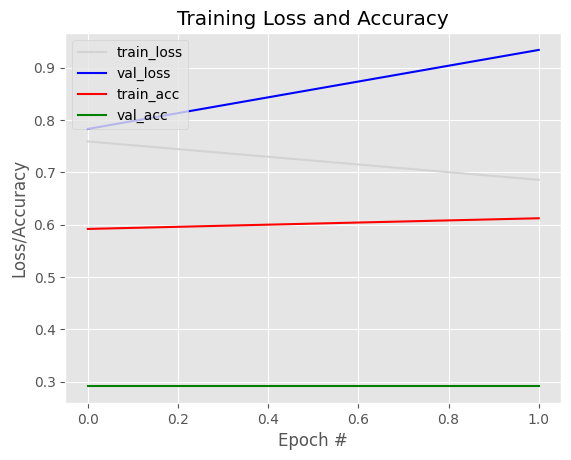
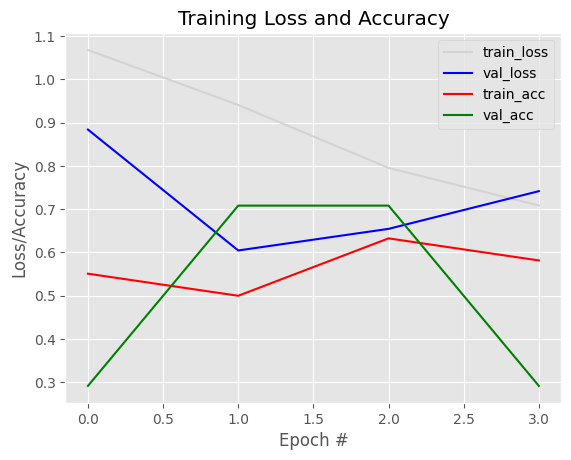
add earlyStop

diff --git a/model_utils/model_utils.py b/model_utils/model_utils.py
@@ -6,28 +6,28 @@ import matplotlib.pyplot as plt
 import numpy as np
 import os
 
+def save_model(arg_model,arg_model_last_model_path):
+# def save_model(arg_model_json_path,arg_label_obj_path,arg_model,arg_model_weights_path,arg_model_last_model_path):
+    # # serialize model to JSON
+    # model_json = arg_model.to_json()
+    # with open(arg_model_json_path, "w") as json_file:
+    #     json_file.write(model_json)
 
-def save_model(arg_model_json_path,arg_label_obj_path,arg_model,arg_model_weights_path,arg_model_default_save_path):
-    # serialize model to JSON
-    model_json = arg_model.to_json()
-    with open(arg_model_json_path, "w") as json_file:
-        json_file.write(model_json)
+    # lb = LabelEncoder()
+    # # pickle label encoder obj
+    # with open(arg_label_obj_path, 'wb') as lb_obj:
+    #     pickle.dump(lb, lb_obj)
 
-    lb = LabelEncoder()
-    # pickle label encoder obj
-    with open(arg_label_obj_path, 'wb') as lb_obj:
-        pickle.dump(lb, lb_obj)
+    # # serialize weights to HDF5
+    # arg_model.save_weights(arg_model_weights_path)
+    # arg_model.save(arg_model_weights_path)
+    arg_model.save(arg_model_last_model_path)
 
-    # serialize weights to HDF5
-    arg_model.save_weights(arg_model_weights_path)
-    arg_model.save(arg_model_weights_path)
-    arg_model.save(arg_model_default_save_path)
-
-def plot_loss_accuracy(arg_model_fit_output, arg_nb_epochs, arg_output_folder):
+def plot_loss_accuracy(arg_model_fit_output, arg_output_folder):
     plt.style.use("ggplot")
     plt.figure()
     H = arg_model_fit_output
-    N = arg_nb_epochs
+    N = len(H.history["loss"])
     plt.plot(np.arange(0, N), H.history["loss"], color='lightgrey', label="train_loss")
     plt.plot(np.arange(0, N), H.history["val_loss"], color='blue', label="val_loss")
     plt.plot(np.arange(0, N), H.history["accuracy"], color='red', label="train_acc")

diff --git a/conf.py b/conf.py
@@ -10,12 +10,14 @@ val_spit=0.2
 # check if the folder exists
 import os
 output_folder = 'output'
-model_json_path = os.path.join(output_folder, 'model.json')
-label_obj_path = os.path.join(output_folder, 'labels.h5')
+# model_json_path = os.path.join(output_folder, 'model.json')
+# label_obj_path = os.path.join(output_folder, 'labels.h5')
 model_each_epoch_path = os.path.join(output_folder, 'each_epoch', 'model_at_{epoch}.h5')
-model_weights_path = os.path.join(output_folder, 'last_epoch_model_weights.h5')
-model_last_save_path  = os.path.join(output_folder, 'last_epoch_tf_model.h5')
+# model_weights_path = os.path.join(output_folder, 'last_epoch_model_weights.h5')
+model_last_epoch  = os.path.join(output_folder, 'last_epoch_model.h5')
 model_best_path = os.path.join(output_folder, 'best_model', 'best_model_at_{epoch}.h5')
+
+# specify a model for evaluation and inference
 model_best_file_path = os.path.join(output_folder, 'best_model', 'best_model_at_2.h5')
 
 # logs
@@ -26,4 +28,4 @@ image_size = 150
 input_shape = (image_size, image_size, 3)
 input_im_size = (image_size, image_size)
 batch_size = 16
-epochs = 2
+epochs = 10

diff --git a/train.py b/train.py
@@ -80,6 +80,7 @@ if __name__ == "__main__":
         tf.keras.callbacks.ModelCheckpoint(filepath=conf.model_best_path, save_best_only=True, save_weights_only=False, monitor='val_accuracy', mode='max', verbose=1),
         # # save the model for each epoch
         # keras.callbacks.ModelCheckpoint(conf.model_each_epoch_path),
+        tf.keras.callbacks.EarlyStopping(monitor='val_accuracy', min_delta=0.001, patience=2, mode='auto', restore_best_weights=True),
     ]
 
     # train model
@@ -91,6 +92,7 @@ if __name__ == "__main__":
     )
 
     # save trained model
-    utils.save_model(conf.model_json_path, conf.label_obj_path, model, conf.model_weights_path, conf.model_last_save_path)
+    # utils.save_model(conf.model_json_path, conf.label_obj_path, model, conf.model_weights_path, conf.model_last_epoch)
+    utils.save_model(model, conf.model_last_epoch)
 
-    utils.plot_loss_accuracy(model_fit_output, conf.epochs, conf.output_folder)
+    utils.plot_loss_accuracy(model_fit_output,conf.output_folder)

diff --git a/retrain.py b/retrain.py
@@ -69,4 +69,4 @@ if __name__=="__main__":
     # save trained model
     utils.save_model(conf.model_json_path, conf.label_obj_path, model, conf.model_weights_path, conf.model_last_save_path)
 
-    utils.plot_loss_accuracy(model_fit_output, conf.epochs, conf.output_folder)
+    utils.plot_loss_accuracy(model_fit_output, conf.output_folder)
